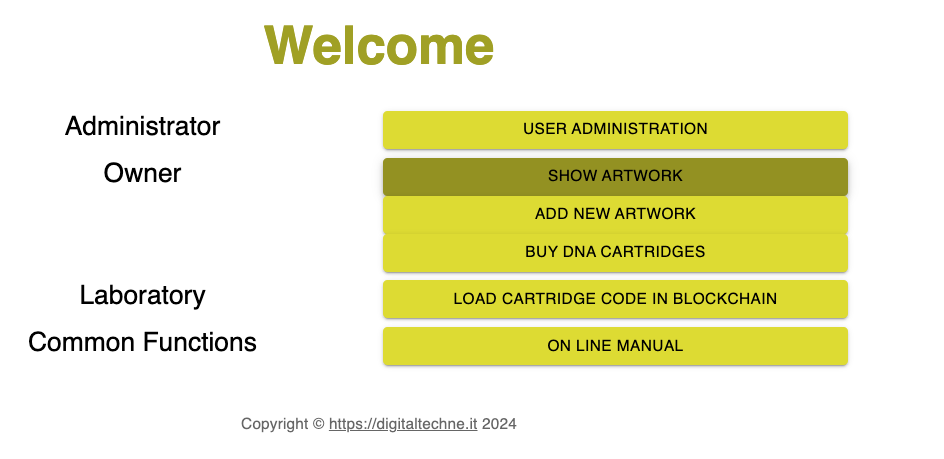
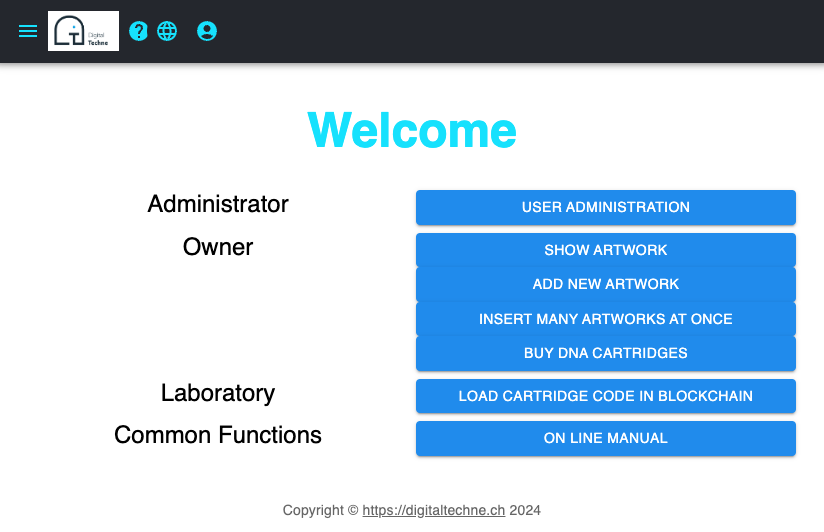
Migliorato landing page
e manuale

diff --git a/src/frontend/src/LandingPage.jsx b/src/frontend/src/LandingPage.jsx
@@ -7,8 +7,11 @@ import { Footer } from "./Footer";
 // import logo from "/DT-noalpha.png";
 import logo from "/Liliana Gramberg.jpg";
 //import logosa from './Smartars.png';
+import { useAuth} from "./auth/use-auth-client";
+
 
 export function LandingPage() {
+  const { isAuthenticated, identity } = useAuth();
   const { t, i18n } = useTranslation();
   const changeLanguage = (lng) => {
     i18n.changeLanguage(lng);
@@ -34,26 +37,34 @@ export function LandingPage() {
         <img src={logo} className="xxxxApp-logo" alt="logo digitaltechne" />
         <div className="margintop30">
           <p>
-            {t("Benvenuto")} <big>DigitalTechne {app_instance}</big>
-          </p>
-            {t("Benvenuto2")}
-          <br />
+            {t("Benvenuto")} <big> {t("WelcomeTarget")}, </big>
+            {t("Benvenuto2")} 
+            </p>
         </div>
-        <div className="asinistra margintop30">
+
           <p>
-            <br />
-            {t("ToKnowMore2")}
-            <a href="/digitaltechne_site/index.html" target="_blank" rel="noreferrer"> <b>{t("SiteName")}</b> </a>
-            {t("ToKnowMore3")}
-          </p>
-          <p>
+            {isAuthenticated ? (
+            <Link to="/home">{t("GoHome")}</Link>
+            ) : (
             <Link to="/login">{t("Accedi")}</Link>
+            )}
           </p>
+
+        <div xxclassName="asinistra margintop30">
+          <p>
+            {t("ToKnowMoreLiliana")} 
+                  <a href="https://lilianagramberg.com" target="_blank" rel="noreferrer"> <b>{t("SiteName")}</b> </a>
+          </p>
+
+          <p>
+            {t("ToKnowMore2")}
+            <a href="https://digitaltechne.ch" hhhref="/digitaltechne_site/index.html" target="_blank" rel="noreferrer"> <b>{t("SiteName")}</b> </a>
+            {t("ToKnowMore3")}
             {t("ReadFirstInfo")}
           <a href={infoUrl} target="_blank" rel="noreferrer">
             {t("ReadFirstInfo2")}
           </a>
-            <p></p>
+          </p>
         </div>
       </div>
       </Container>

diff --git a/src/docs/docs/MISC/first_info.rst b/src/docs/docs/MISC/first_info.rst
@@ -4,15 +4,16 @@
 
 
 #####################################
-Digital Techne Minimum Viable Product
+Digital Techne Archive Infrastructure
 #####################################
-DigitalTechne on the Internet Computer is a Work in Progress, base functionalities are already in place, while some features will be available in the near future
+DigitalTechne on the Internet Computer is a Work in Progress, most functionalities are already in place, while some features will be available in the near future.
+It can be tailored to address many different Use Cases, so this is just a generic introduction.
 
 Authentication
 ================
 Authentication is done using the Internet Identity, that is available on modern computers (some hardware support is required). Please refer to this `information <https://internetcomputer.org/internet-identity>`_ about Internet Identity .
 
-While being really easy to use, it is also very secure.
+While being really easy to use, it is also very secure, and basically it provides a trusted account, that does not have user identification built in.
 
 What this platform is for
 =========================

diff --git a/src/docs/docs/USER_MANUAL/cartridge_insert/cartridge_insert.rst b/src/docs/docs/USER_MANUAL/cartridge_insert/cartridge_insert.rst
@@ -1,0 +1,10 @@
+Cartridge Insert
+#################
+
+Users that have the Cartridge Insert role are entitled to insert in the Blockchain the information of the DNA cartridges
+
+The only mandatory information is a Excel file, with the genes and alleles of the DNA.
+
+.. image:: ./cartridge_insert.png
+  :width: 600
+  :alt: Home

diff --git a/src/docs/docs/USER_MANUAL/user_manual.rst b/src/docs/docs/USER_MANUAL/user_manual.rst
@@ -12,5 +12,6 @@
    newdocument/newdocument
    artwork_mark/artwork_mark
    purchase/purchase
+   cartridge_insert/cartridge_insert
    verify_mark/verify_mark
 
